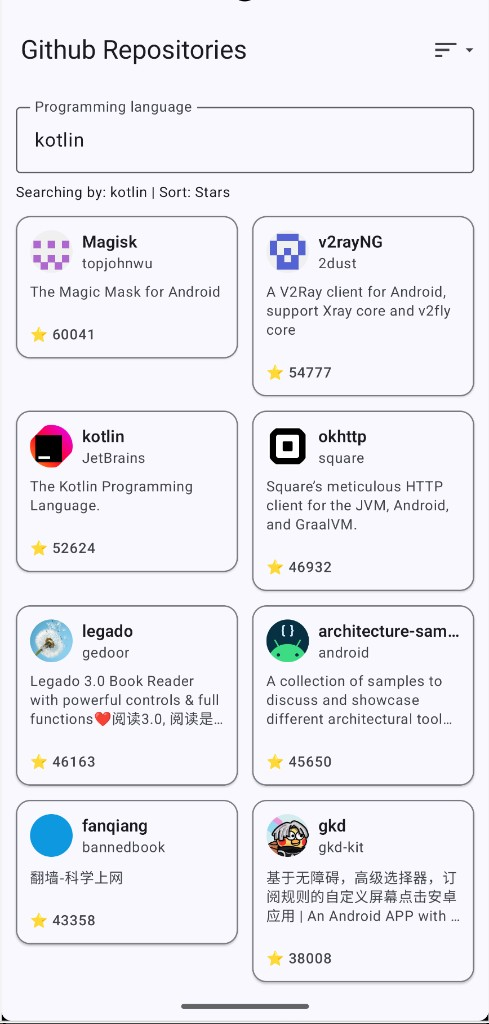
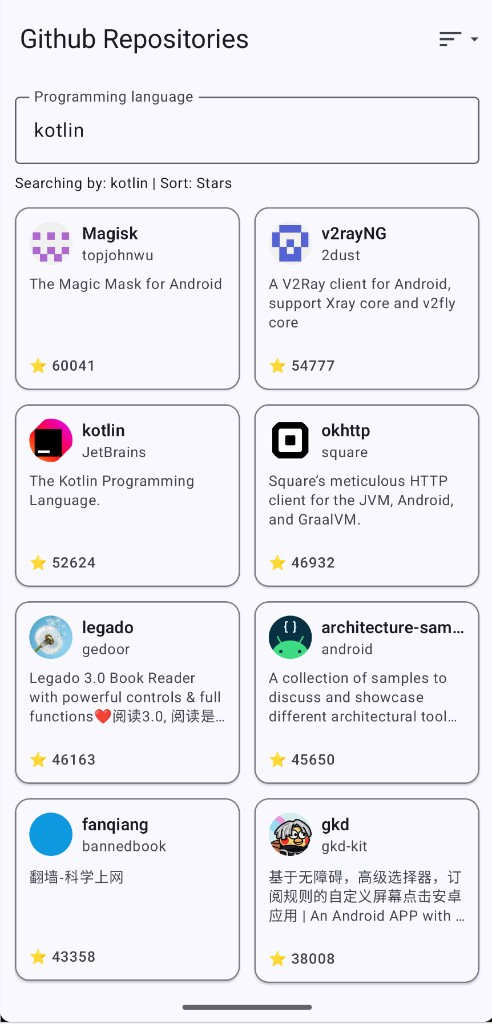
feat: adjust description display in RepositoryItem to allow for a minimum of 3 lines

diff --git a/README.md b/README.md
@@ -4,17 +4,13 @@
 
 Splash screen, repository search (language filter and sort), and repository details.
 
-### Splash screen
-
-![Splash screen](docs/screenshots/splash.png)
-
-### Repositories
-
-![GitHub repositories list with language filter](docs/screenshots/repositories.png)
-
-### Repository details
-
-![Repository details screen](docs/screenshots/repository-details.png)
+<p align="center">
+  <img src="docs/screenshots/splash.png" width="200" alt="Splash screen" />
+  &nbsp;&nbsp;
+  <img src="docs/screenshots/repositories.png" width="200" alt="GitHub repositories list with language filter" />
+  &nbsp;&nbsp;
+  <img src="docs/screenshots/repository-details.png" width="200" alt="Repository details screen" />
+</p>
 
 ## Architecture
 
